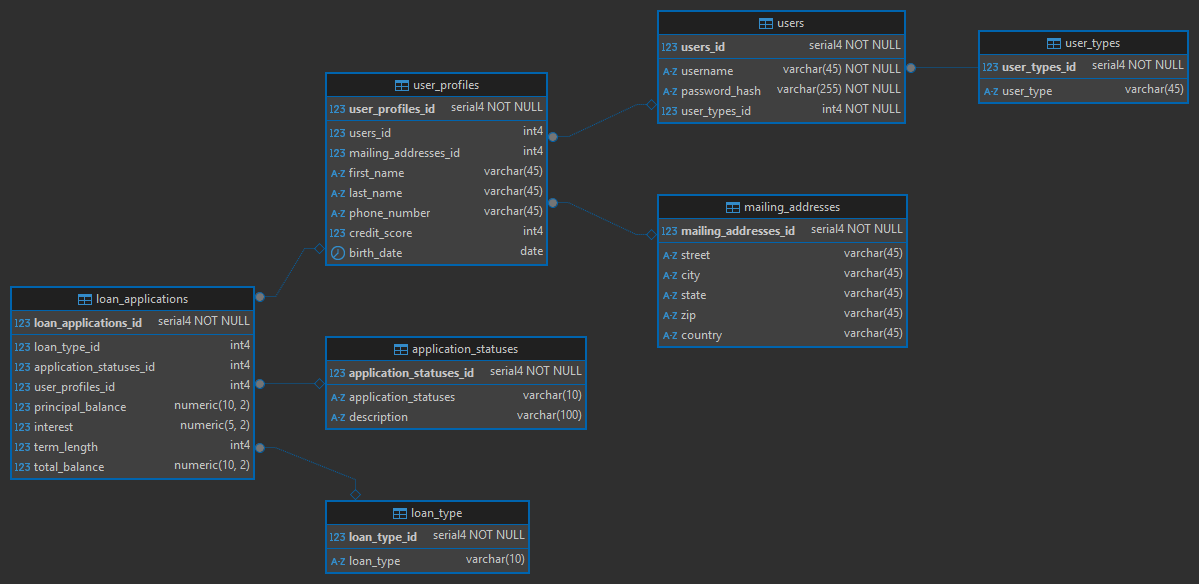
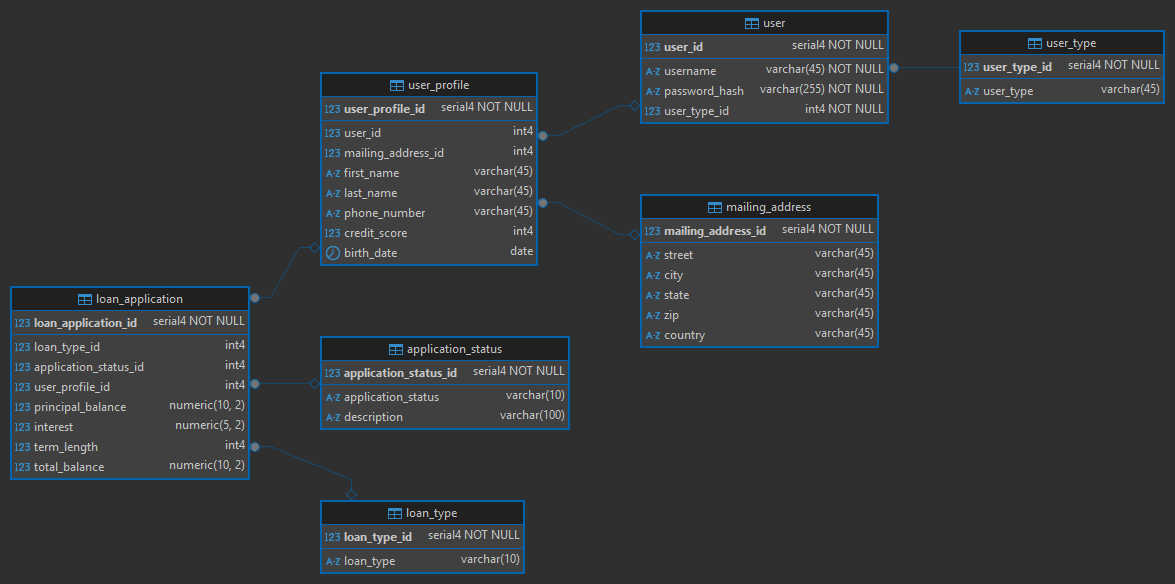
refactor models

diff --git a/src/main/java/org/example/model/LoanApplication.java b/src/main/java/org/example/model/LoanApplication.java
@@ -1,38 +1,50 @@
 package org.example.model;
 
-import jakarta.persistence.*;
+import jakarta.persistence.Column;
+import jakarta.persistence.Entity;
+import jakarta.persistence.GeneratedValue;
+import jakarta.persistence.GenerationType;
+import jakarta.persistence.Id;
+import jakarta.persistence.JoinColumn;
+import jakarta.persistence.ManyToOne;
+import jakarta.persistence.Table;
 
 @Entity
-@Table(name = "loan_applications")
+@Table(name = "loan_application")
 public class LoanApplication {
 
     @Id
     @GeneratedValue(strategy = GenerationType.IDENTITY)
+    @Column(name = "loan_application_id")
     private Long id;
 
     @ManyToOne
     @JoinColumn(name = "application_status_id")
     private ApplicationStatus applicationStatus;
+    
     @ManyToOne
     @JoinColumn(name = "loan_type_id")
     private LoanType loanType;
 
     @ManyToOne
-    @JoinColumn(name = "user_profiles_id")
+    @JoinColumn(name = "user_profile_id")
     private UserProfile userProfile;
 
-    @Column(name="principal_balance")
+    @Column(name = "principal_balance", precision = 10, scale = 2)
     private Double principalBalance;
-    @Column()
-    private Double interest;
-    @Column(name="term_length")
-    private Long termLength;
-    @Column(name="total_balance")
-    private Long totalBalance;
 
+    @Column(name = "interest", precision = 5, scale = 2)
+    private Double interest;
+
+    @Column(name = "term_length")
+    private Integer termLength;
+
+    @Column(name = "total_balance", precision = 10, scale = 2)
+    private Double totalBalance;
+
+    // Default constructor
     public LoanApplication() {
     }
-
 
     public Long getId() {
         return id;
@@ -82,19 +94,19 @@ public class LoanApplication {
         this.interest = interest;
     }
 
-    public Long getTermLength() {
+    public Integer getTermLength() {
         return termLength;
     }
 
-    public void setTermLength(Long termLength) {
+    public void setTermLength(Integer termLength) {
         this.termLength = termLength;
     }
 
-    public Long getTotalBalance() {
+    public Double getTotalBalance() {
         return totalBalance;
     }
 
-    public void setTotalBalance(Long totalBalance) {
+    public void setTotalBalance(Double totalBalance) {
         this.totalBalance = totalBalance;
     }
 }

diff --git a/src/main/java/org/example/model/ApplicationStatus.java b/src/main/java/org/example/model/ApplicationStatus.java
@@ -8,41 +8,41 @@ import jakarta.persistence.Id;
 import jakarta.persistence.Table;
 
 @Entity
-@Table(name = "application_statuses")
-public class ApplicationStatuses{
+@Table(name = "application_status")
+public class ApplicationStatus {
     @Id
     @GeneratedValue(strategy = GenerationType.IDENTITY)
-    @Column(name = "application_statuses_id")
+    @Column(name = "application_status_id")
     private int id;
 
-    @Column(name = "application_statuses", length = 10, unique = true)
+    @Column(name = "application_status", length = 10, unique = true)
     private String status;
 
     @Column(name = "description", length = 100)
     private String description;
 
+    // Getters and Setters
     public int getId() {
         return id;
-    }
-
-    public String getStatus() {
-        return status;
-    }
-
-    public String getDescription(){
-        return description;
     }
 
     public void setId(int id) {
         this.id = id;
     }
 
+    public String getStatus() {
+        return status;
+    }
+
     public void setStatus(String status) {
         this.status = status;
     }
 
-    public void setDescription(String description){
-        this.description = description;
+    public String getDescription() {
+        return description;
     }
 
+    public void setDescription(String description) {
+        this.description = description;
+    }
 }

diff --git a/src/main/java/org/example/model/UserType.java b/src/main/java/org/example/model/UserType.java
@@ -1,0 +1,40 @@
+package org.example.model;
+
+import jakarta.persistence.Column;
+import jakarta.persistence.Entity;
+import jakarta.persistence.GeneratedValue;
+import jakarta.persistence.GenerationType;
+import jakarta.persistence.Id;
+import jakarta.persistence.Table;
+
+@Entity
+@Table(name = "user_type") // Changed from plural to singular
+public class UserType { // Changed class name to singular
+    @Id
+    @GeneratedValue(strategy = GenerationType.IDENTITY)
+    @Column(name = "user_type_id") // Updated column name
+    private int id;
+
+    @Column(name = "user_type", length = 45)
+    private String userType;
+    
+    // Default constructor
+    public UserType() {}
+    
+    // Getters and setters
+    public int getId() {
+        return id;
+    }
+
+    public void setId(int id) {
+        this.id = id;
+    }
+
+    public String getUserType() {
+        return userType;
+    }
+
+    public void setUserType(String userType) {
+        this.userType = userType;
+    }
+}
